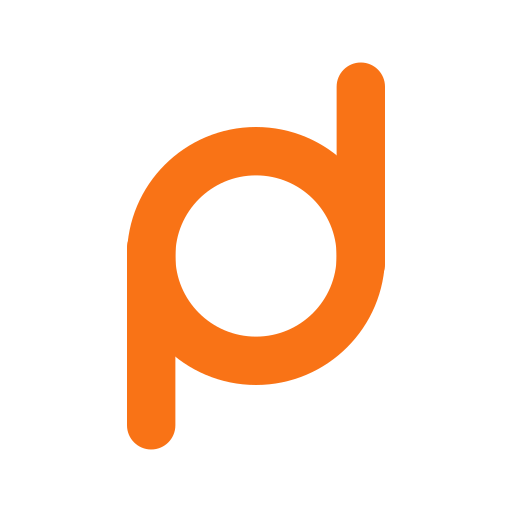
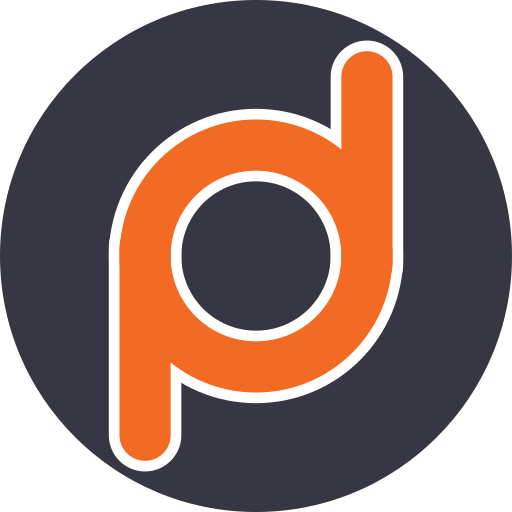
feat: marca nova do Bruno, o trocadilho de volta e a landing contando o fluxo
MARCA. O Bruno desenhou uma versao nova (disco escuro de fundo e contorno
branco em volta do laranja) porque a anterior estava simples demais. Aplicada
como VETOR, nao como recorte do PNG: escala sem perda, pesa poucos bytes e
mantem a animacao das duas metades se encaixando. As cores foram MEDIDAS do
arquivo dele, nao estimadas: laranja #f36a22, disco #373643.

De quebra, o laranja da interface (--accent-orange) passou de #f97316 para o
laranja da marca. Eram quase iguais mas nao iguais, e logo que destoa da
interface por um fio parece defeito, nao intencao.

Favicons e os seis PNGs derivados regerados do vetor novo. Descoberta de
caminho: os favicons ainda eram da marca ANTIGA (um balao de fala), nunca
atualizados na troca de marca de 21/08.

TROCADILHO. "demandou. postou." volta ao hero como manchete e vira o titulo
das paginas. E o nome do produto e a promessa inteira na mesma frase: voce
demandou (falou o que precisa), ele postou (o conteudo saiu pronto).

LANDING. A secao "Como funciona" foi reescrita para o fluxo real, na mesma
ordem do assistente (voz antes de ideia), com os logos oficiais das cinco
redes reusados do componente do app, e contando a historia atual: o video
gravado pelo cliente e o produto, e quem nao tem video para gravar hoje da um
tema. Antes ela descrevia "agentes que escrevem posts" e nao mostrava rede
nenhuma.

Verificado no navegador, em build de producao, nao so no codigo.

diff --git a/components/landing/how-it-works.tsx b/components/landing/how-it-works.tsx
@@ -1,38 +1,72 @@
 "use client";
 
 import { motion } from "framer-motion";
+import {
+  LogoLinkedIn,
+  LogoInstagram,
+  LogoX,
+  LogoFacebook,
+  LogoYouTube,
+} from "@/components/social/logos-redes";
 
-const STEPS = [
+/**
+ * O fluxo real do produto, na mesma ordem do assistente.
+ *
+ * Reescrito em 22/08/2026 por três motivos que o Bruno apontou no teste:
+ * a landing não mostrava o fluxo, não trazia os logos oficiais das redes, e
+ * contava a história antiga ("agentes que escrevem posts") em vez da atual,
+ * em que o vídeo gravado pelo cliente é o produto.
+ *
+ * A ordem aqui espelha o assistente de propósito: quem chega na plataforma
+ * reconhece o caminho que leu no site. Voz antes de ideia, porque ideia sem
+ * voz sai genérica.
+ */
+const ETAPAS = [
   {
-    number: "01",
-    title: "Configure seu projeto",
-    description:
-      "O assistente de IA te guia em 7 etapas: define o nicho, voz, equipe de agentes, redes e agenda. Leva menos de 10 minutos.",
+    numero: "01",
+    titulo: "Conecte suas redes",
+    descricao:
+      "Uma autorização por rede, sem senha, sem copiar e colar. É o que permite o squad publicar por você em vez de te devolver texto para postar na mão.",
+    redes: true,
   },
   {
-    number: "02",
-    title: "Agentes trabalham automaticamente",
-    description:
-      "Na hora programada, seu squad de IA pesquisa tendências, escreve posts, cria infográficos e prepara tudo para publicação.",
+    numero: "02",
+    titulo: "Ensine sua voz",
+    descricao:
+      "Seu tom, seus temas de domínio, os perfis que você admira. É esta etapa que separa conteúdo que soa como você de conteúdo que soa como robô, e ela vem antes de qualquer ideia.",
   },
   {
-    number: "03",
-    title: "Você aprova com um clique",
-    description:
-      "Receba o rascunho completo (texto + imagem) para revisão. Aprove ou peça ajustes. O agente aprende com seu feedback.",
+    numero: "03",
+    titulo: "Grave um vídeo. Ou dê um tema.",
+    descricao:
+      "Fale um vídeo do jeito que você falaria numa conversa: o squad transcreve, escolhe os melhores trechos e transforma em cortes, reels e shorts. Sem vídeo para gravar hoje? Dê um tema e ele cria imagem, carrossel, artigo e texto.",
+    destaque: true,
   },
   {
-    number: "04",
-    title: "Publicado em todas as redes",
-    description:
-      "Com sua aprovação, Paulo Publicador publica no LinkedIn e no X, com fontes no primeiro comentário. O conteúdo do Instagram sai pronto para você postar.",
+    numero: "04",
+    titulo: "Aprove o que vai sair",
+    descricao:
+      "Nada é publicado sem você ver. Aprove, peça ajuste ou descarte. O squad aprende com o que você corrige e erra menos na semana seguinte.",
   },
+  {
+    numero: "05",
+    titulo: "Publicado, com você no controle",
+    descricao:
+      "Na hora marcada, seu conteúdo sai nas redes conectadas. Você acompanha o que foi publicado, quanto custou em créditos e o que rendeu.",
+  },
+];
+
+const REDES = [
+  { Logo: LogoLinkedIn, nome: "LinkedIn" },
+  { Logo: LogoInstagram, nome: "Instagram" },
+  { Logo: LogoX, nome: "X" },
+  { Logo: LogoFacebook, nome: "Facebook" },
+  { Logo: LogoYouTube, nome: "YouTube" },
 ];
 
 export function HowItWorks() {
   return (
     <section id="how" className="py-24 lg:py-32 relative">
-      {/* Subtle separator */}
       <div className="absolute top-0 left-0 right-0 h-px bg-gradient-to-r from-transparent via-[var(--border)] to-transparent" />
 
       <div className="max-w-7xl mx-auto px-4 sm:px-6 lg:px-8">
@@ -46,38 +80,58 @@ export function HowItWorks() {
             Como funciona
           </div>
           <h2 className="text-4xl lg:text-5xl font-black text-[var(--text-primary)] mb-4">
-            Da ideia ao post publicado{" "}
-            <span className="text-orange-500">sem você digitar</span>
+            Você <span className="text-orange-500">demandou</span>. Ele{" "}
+            <span className="text-orange-500">postou</span>.
           </h2>
           <p className="text-xl text-[var(--text-muted)] max-w-2xl mx-auto">
-            O demandou faz o trabalho pesado. Você foca no que importa.
+            Cinco etapas, uma vez só. Depois disso é você falar e o conteúdo
+            aparecer nas suas redes.
           </p>
         </motion.div>
 
         <div className="relative">
-          {/* Connecting line */}
           <div className="absolute left-[28px] top-8 bottom-8 w-px bg-gradient-to-b from-orange-500/50 via-orange-500/20 to-transparent hidden md:block" />
 
           <div className="space-y-8">
-            {STEPS.map((step, i) => (
+            {ETAPAS.map((etapa, i) => (
               <motion.div
-                key={step.number}
+                key={etapa.numero}
                 initial={{ opacity: 0, x: -20 }}
                 whileInView={{ opacity: 1, x: 0 }}
                 viewport={{ once: true }}
-                transition={{ delay: i * 0.15 }}
-                className="flex gap-8 items-start"
+                transition={{ delay: i * 0.12 }}
+                className="flex gap-6 sm:gap-8 items-start"
               >
                 <div className="flex-shrink-0 w-14 h-14 rounded-xl bg-orange-500 flex items-center justify-center font-black text-white text-lg z-10">
-                  {step.number}
+                  {etapa.numero}
                 </div>
-                <div className="flex-1 bg-[var(--bg-card)] border border-[var(--border)] rounded-xl p-6">
+                <div
+                  className="flex-1 bg-[var(--bg-card)] border rounded-xl p-6"
+                  style={{
+                    borderColor: etapa.destaque
+                      ? "rgba(243,106,34,0.35)"
+                      : "var(--border)",
+                  }}
+                >
                   <h3 className="text-xl font-bold text-[var(--text-primary)] mb-2">
-                    {step.title}
+                    {etapa.titulo}
                   </h3>
                   <p className="text-[var(--text-muted)] leading-relaxed">
-                    {step.description}
+                    {etapa.descricao}
                   </p>
+
+                  {etapa.redes && (
+                    <div className="flex flex-wrap items-center gap-3 mt-5">
+                      {REDES.map(({ Logo, nome }) => (
+                        <div key={nome} className="flex items-center gap-2">
+                          <Logo className="!w-8 !h-8" />
+                          <span className="text-xs text-[var(--text-muted)] hidden sm:inline">
+                            {nome}
+                          </span>
+                        </div>
+                      ))}
+                    </div>
+                  )}
                 </div>
               </motion.div>
             ))}

diff --git a/components/brand-mark-animated.tsx b/components/brand-mark-animated.tsx
@@ -8,7 +8,11 @@ import { cn } from "@/lib/utils";
  * "demandou, postou".
  *
  * Feita em SVG com animação CSS, e não em vídeo ou GIF: pesa poucos bytes,
- * escala sem perda, herda a cor do texto e não custa JavaScript nenhum.
+ * escala sem perda e não custa JavaScript nenhum.
+ *
+ * Desde 22/08 a marca traz disco de fundo e contorno branco, do desenho novo
+ * do Bruno, então as cores são fixas: logo com cor herdada mudaria de cara
+ * conforme o contexto, que é justamente o que uma marca não pode fazer.
  *
  * As duas metades carregam cada uma a sua cópia da bola central; quando a
  * animação termina, elas coincidem pixel a pixel e o resultado é a marca.
@@ -23,8 +27,8 @@ export function BrandMarkAnimated({
 }) {
   return (
     <svg
-      viewBox="0 0 64 104"
-      width={(size * 64) / 104}
+      viewBox="-28 -8 120 120"
+      width={size}
       height={size}
       fill="none"
       role="img"
@@ -51,16 +55,23 @@ export function BrandMarkAnimated({
         }
       `}</style>
 
-      {/* metade "d": bola + haste que sobe à direita */}
+      {/* Disco de fundo, do desenho novo do Bruno (22/08). */}
+      <circle cx="32" cy="52" r="60" fill="#373643" />
+
+      {/* metade "d": bola + haste que sobe à direita, com contorno branco */}
       <g className="marca-d">
-        <circle cx="32" cy="52" r="26" stroke="currentColor" strokeWidth="12" />
-        <rect x="52" y="4" width="12" height="56" rx="6" fill="currentColor" />
+        <circle cx="32" cy="52" r="26" stroke="#ffffff" strokeWidth="17" />
+        <rect x="49.5" y="1.5" width="17" height="61" rx="8.5" fill="#ffffff" />
+        <circle cx="32" cy="52" r="26" stroke="#f36a22" strokeWidth="12" />
+        <rect x="52" y="4" width="12" height="56" rx="6" fill="#f36a22" />
       </g>
 
       {/* metade "p": mesma bola + haste que desce à esquerda */}
       <g className="marca-p">
-        <circle cx="32" cy="52" r="26" stroke="currentColor" strokeWidth="12" />
-        <rect x="0" y="44" width="12" height="56" rx="6" fill="currentColor" />
+        <circle cx="32" cy="52" r="26" stroke="#ffffff" strokeWidth="17" />
+        <rect x="-2.5" y="41.5" width="17" height="61" rx="8.5" fill="#ffffff" />
+        <circle cx="32" cy="52" r="26" stroke="#f36a22" strokeWidth="12" />
+        <rect x="0" y="44" width="12" height="56" rx="6" fill="#f36a22" />
       </g>
     </svg>
   );

diff --git a/components/landing/hero.tsx b/components/landing/hero.tsx
@@ -40,23 +40,32 @@ export function Hero() {
               <span>Apenas 1% publica toda semana. Esse 1% leva os clientes.</span>
             </div>
 
+            {/*
+              O trocadilho é o nome do produto e a promessa inteira: você
+              demandou (falou o que precisa), ele postou (o conteúdo saiu
+              pronto). Recolocado no hero em 22/08 a pedido do Bruno, e o
+              subtítulo passou a contar a história do vídeo, que virou o
+              produto.
+            */}
             <h1 className="text-5xl lg:text-6xl font-black text-[var(--text-primary)] leading-[1.05] mb-6">
-              Quem não publica{" "}
-              <span className="text-orange-500">não existe</span> para o mercado
+              Você falou.{" "}
+              <span className="text-orange-500">demandou</span>.{" "}
+              <span className="text-orange-500">postou</span>.
             </h1>
 
             <p className="text-xl text-[var(--text-muted)] leading-relaxed mb-6 max-w-lg">
-              Autoridade é o que faz você cobrar mais caro, ser lembrado na hora
-              da indicação e receber a proposta sem disputar preço. Ela vem de
-              publicar com consistência, e é exatamente isso que 99% não
-              conseguem manter.
+              Quem não publica não existe para o mercado. E autoridade é o que
+              faz você cobrar mais caro, ser lembrado na hora da indicação e
+              receber a proposta sem disputar preço. Ela vem de publicar com
+              consistência, que é exatamente o que 99% não conseguem manter.
             </p>
 
             <p className="text-xl text-[var(--text-primary)] leading-relaxed mb-8 max-w-lg">
-              Um time de agentes pesquisa, escreve, desenha e publica enquanto
-              você trabalha.{" "}
+              Grave um vídeo falando do jeito que você fala. Seu squad de
+              agentes transcreve, corta, escreve, desenha e publica em todas as
+              suas redes.{" "}
               <span className="text-orange-400">E soa como você</span>, porque
-              eles estudam o seu perfil, o seu tom e os seus temas.
+              eles estudam o seu tom, os seus temas e as suas referências.
             </p>
 
             <div className="flex flex-col sm:flex-row gap-4 mb-12">

diff --git a/app/layout.tsx b/app/layout.tsx
@@ -8,7 +8,7 @@ const inter = Inter({ subsets: ["latin"], variable: "--font-inter" });
 const montserrat = Montserrat({ subsets: ["latin"], variable: "--font-mont", weight: ["700", "800"] });
 
 export const metadata: Metadata = {
-  title: "demandou: seus agentes de IA trabalhando por você",
+  title: "demandou. postou. Você grava um vídeo, seu squad de IA publica.",
   description:
     "Plataforma de gestão de redes sociais com agentes de IA. Crie, publique e escale sua presença online com automação inteligente.",
   icons: {
@@ -23,7 +23,7 @@ export const metadata: Metadata = {
     apple: "/icon.png",
   },
   openGraph: {
-    title: "demandou: seus agentes de IA trabalhando por você",
+    title: "demandou. postou. Você grava um vídeo, seu squad de IA publica.",
     description:
       "Plataforma de gestão de redes sociais com agentes de IA. Crie, publique e escale sua presença online com automação inteligente.",
     url: "https://demandou.com",

diff --git a/app/globals.css b/app/globals.css
@@ -17,12 +17,12 @@
   --bg-elevated: #313338;  /* área principal e cards elevados */
   --bg-card: #2b2d31;
   --bg-input: #1e1f22;     /* campo afunda em relação ao container */
-  --accent-orange: #f97316;
+  --accent-orange: #f36a22; /* laranja da marca, medido do logo */
   --accent-amber: #d97706;
   --text-primary: #dbdee1;
   --text-muted: #949ba4;
   --border: #3f4147;
-  --border-accent: #f97316;
+  --border-accent: #f36a22;
   --shadow: 0 1px 3px rgba(0,0,0,.32);
 
   /* Status badge colors */
@@ -44,7 +44,7 @@
   --bg-elevated: #f9f9f9;
   --bg-card: #ffffff;
   --bg-input: #f1f1f1;
-  --accent-orange: #ea6c0a;
+  --accent-orange: #e05f18; /* mesma familia, um tom abaixo para o tema claro */
   --accent-amber: #b45309;
   --text-primary: #111111;
   --text-muted: #6b7280;

diff --git a/app/page.tsx b/app/page.tsx
@@ -9,7 +9,7 @@ import { Pricing } from "@/components/landing/pricing";
 import { Footer } from "@/components/landing/footer";
 
 export const metadata: Metadata = {
-  title: "demandou: quem não publica não existe para o mercado",
+  title: "demandou. postou. Você grava um vídeo, seu squad de IA publica.",
   description:
     "Apenas 1% publica toda semana, e esse 1% leva os clientes. Um time de agentes de IA pesquisa, escreve, desenha e publica nas suas redes. E soa como você.",
 };
